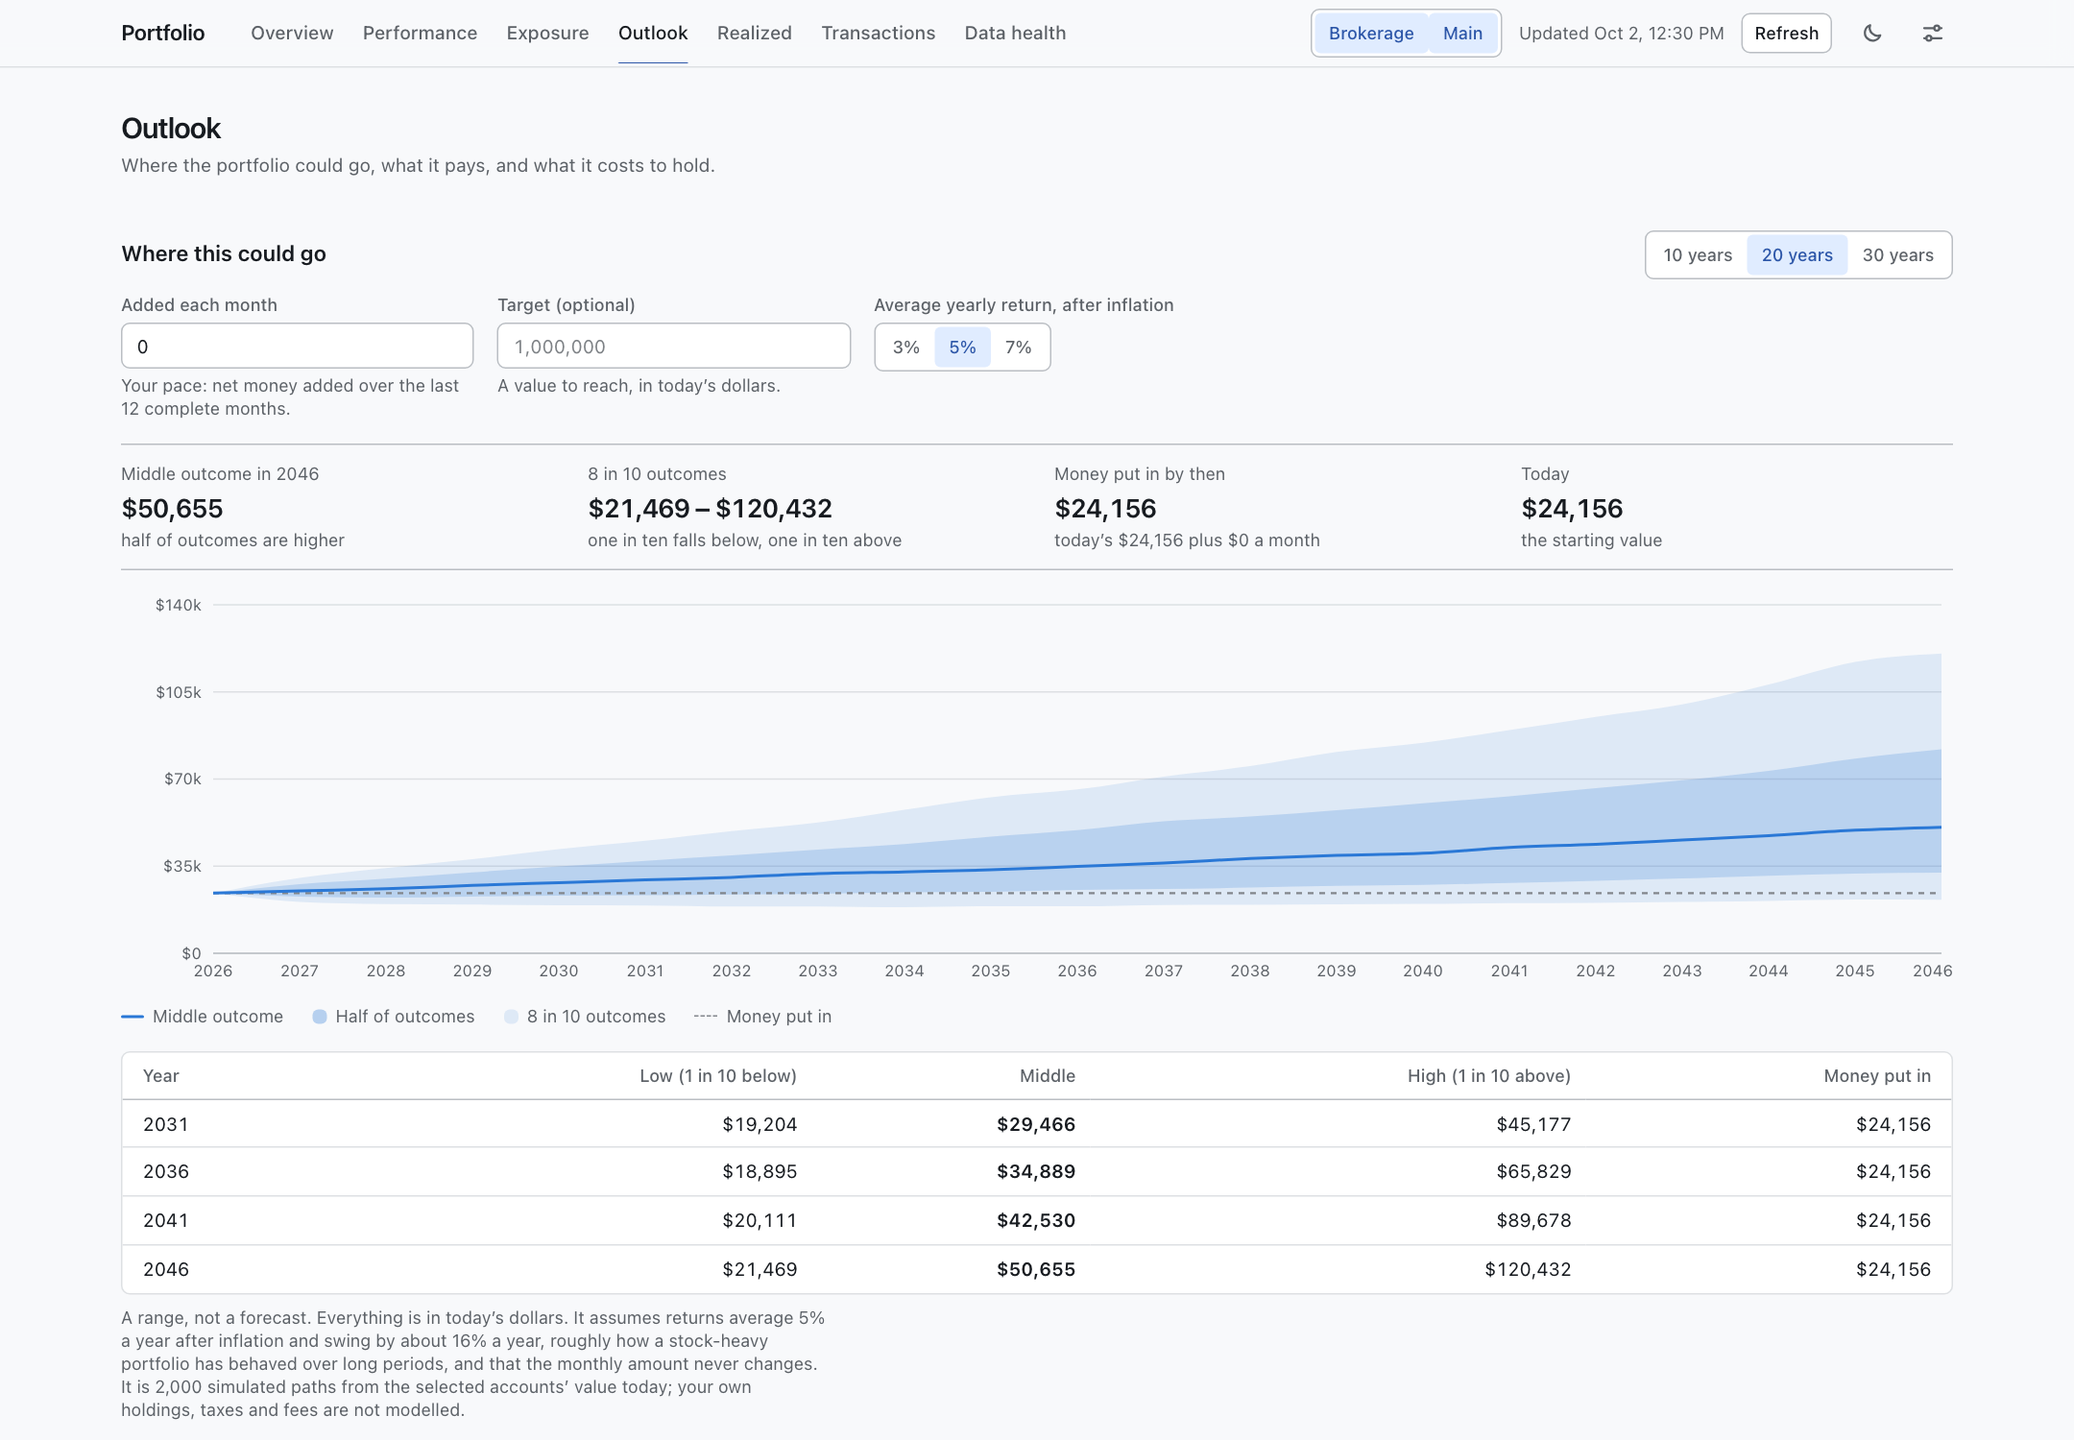
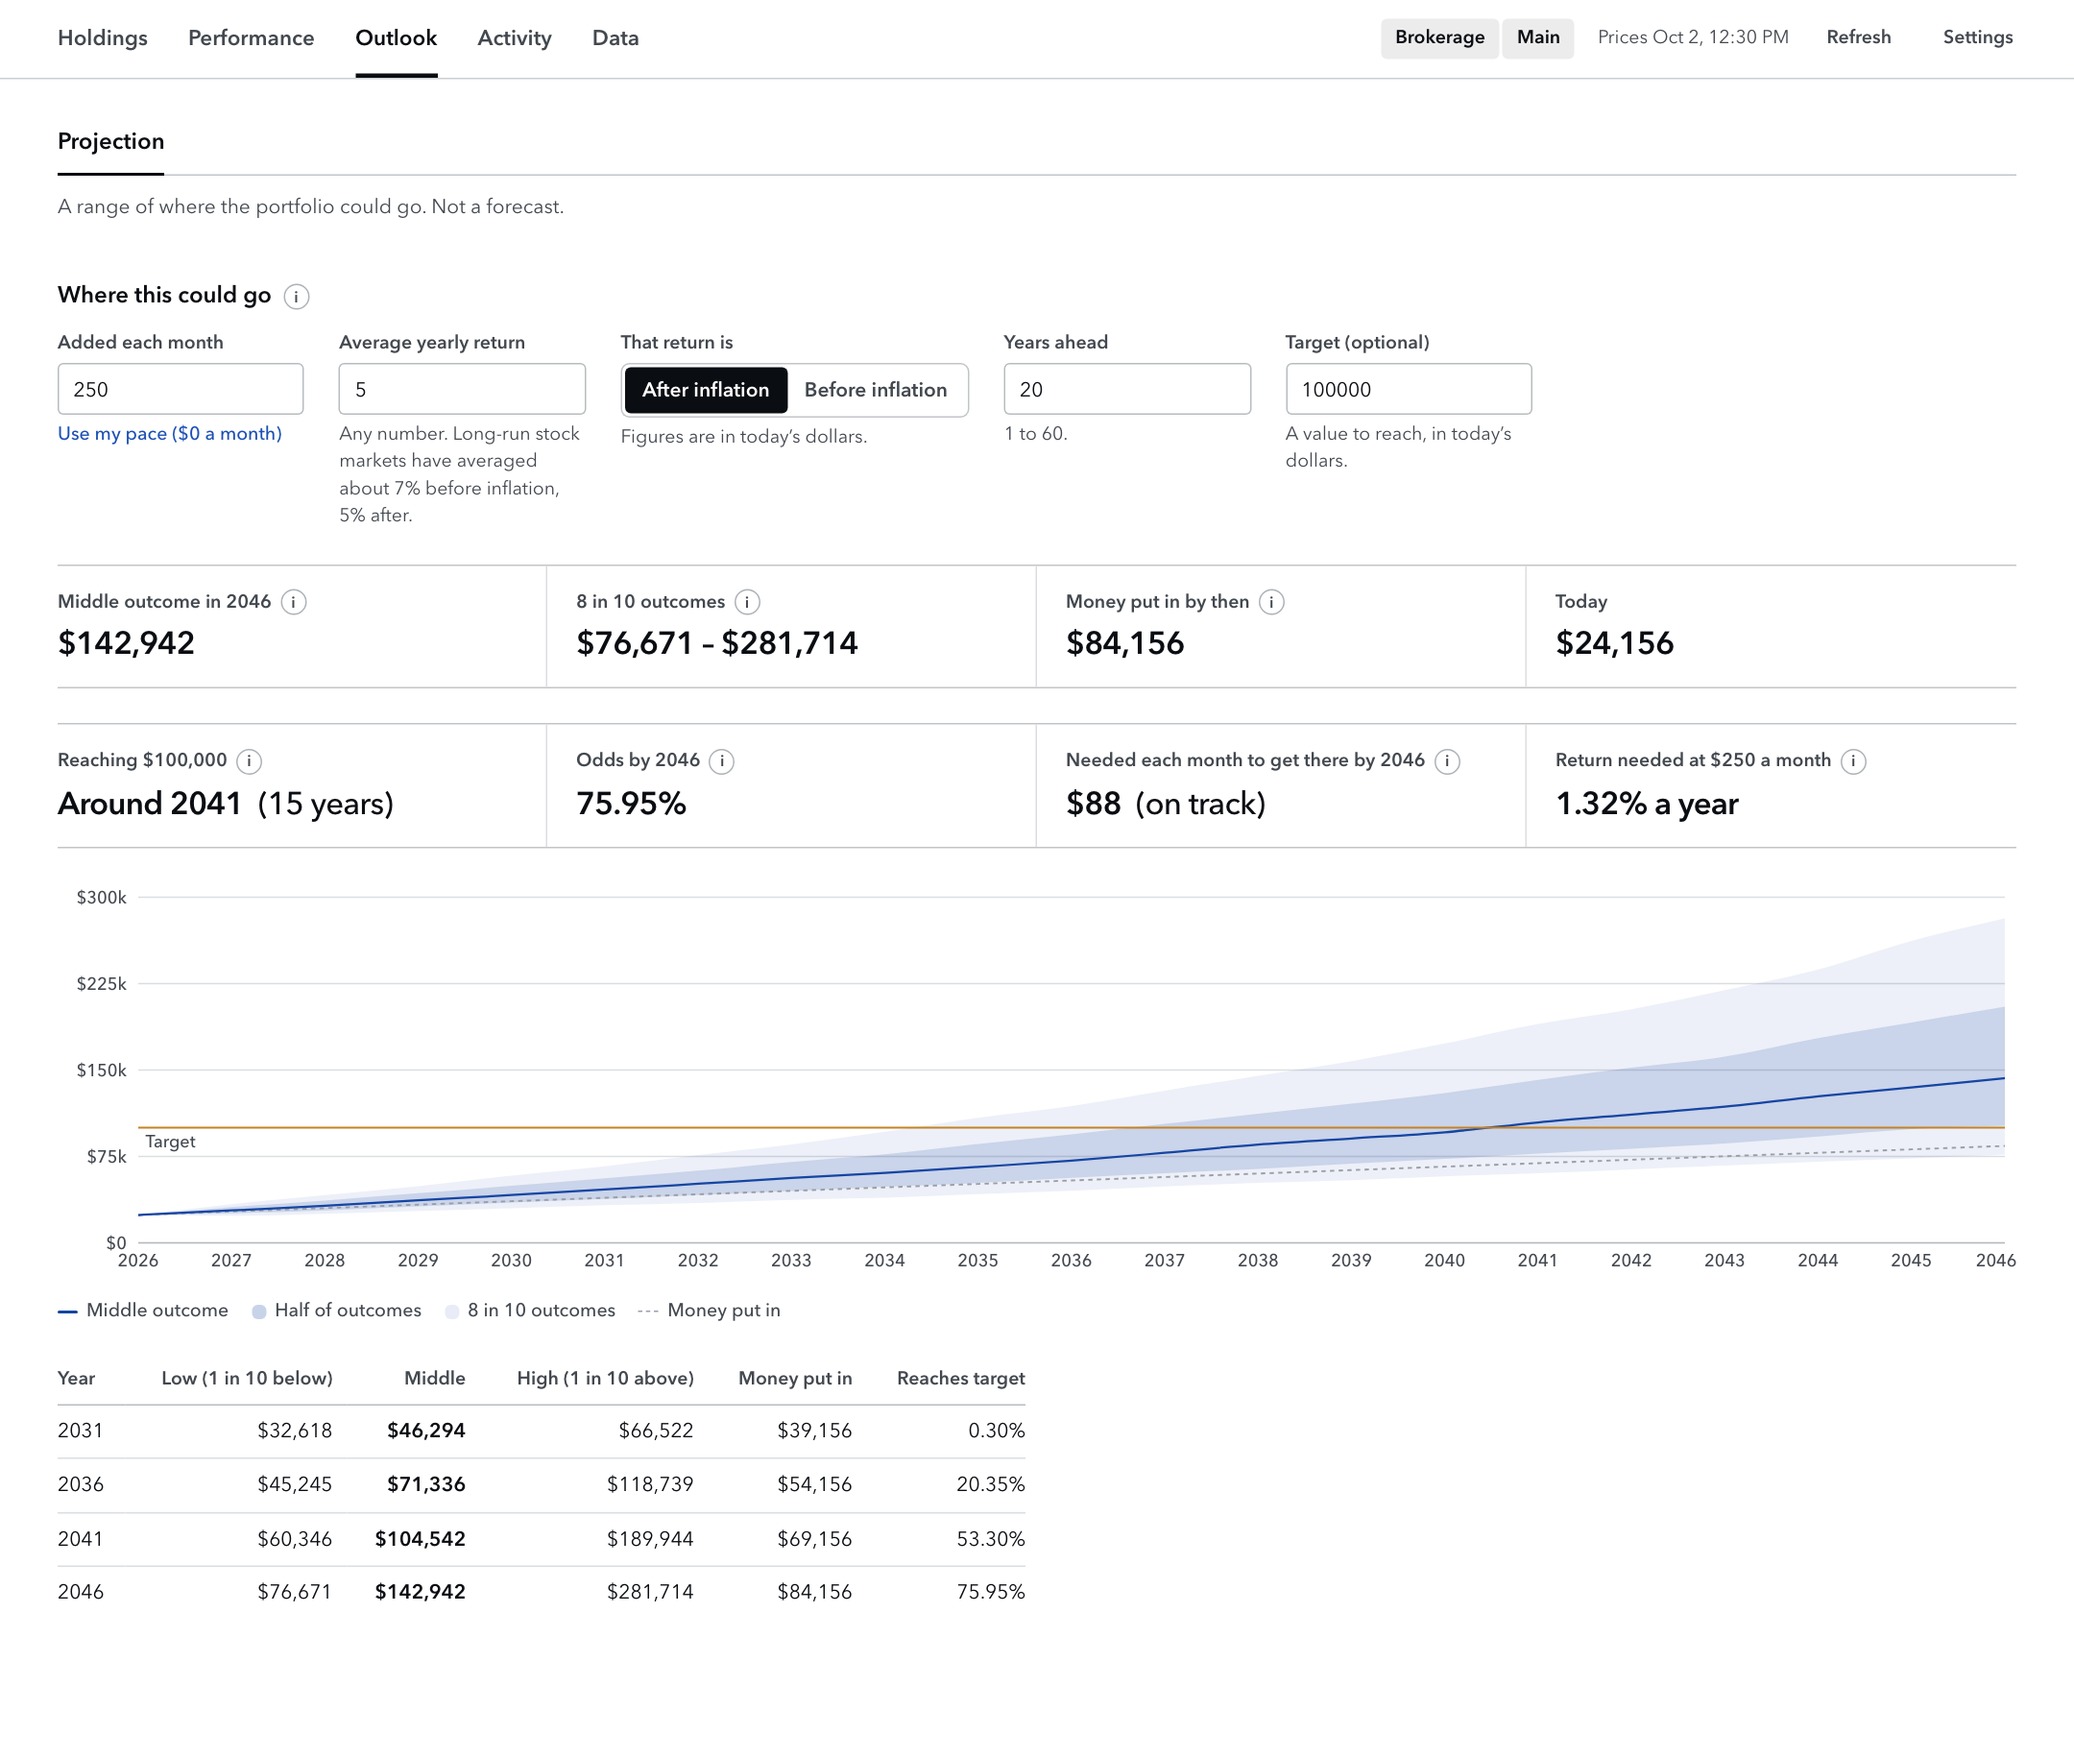
Retake the README screenshots on the redesign and add the Chart page

diff --git a/README.md b/README.md
@@ -4,7 +4,7 @@ A local, single-user replacement for the Google Sheets stock tracker. It keeps y
 
 Outbound requests send ticker symbols and date ranges to Tiingo, public fund identifiers to Vanguard for ETF holdings, and to Yahoo Finance the ticker of each stock without a sector and of each ETF you hold (for its sector breakdown and expense ratio). Portfolio amounts, share counts, and exposure calculations stay on your machine.
 
-![Overview: totals, the value chart, what moved, holdings and sector allocation](assets/screenshots/overview.png)
+![Overview: totals, the value chart, what moved and the holdings table](assets/screenshots/overview.png)
 
 The screenshots here show the invented sample portfolio in `tests/fixtures/sample/`, running on the demo server described below.
 
@@ -97,11 +97,13 @@ The top bar has five areas; each area has a row of tabs, and each tab is one pag
 
 The old page addresses (`/realized`, `/transactions`, `/activity/transactions`, `/fees`, `/health`, `/securities`) redirect to their new homes.
 
+![Chart: the whole history with buys, sells and dividends marked; drag to zoom, scroll to pan](assets/screenshots/chart.png)
+
 | Performance | Outlook |
 | --- | --- |
-| ![Performance: returns against SPY and QQQ, and stocks versus ETFs](assets/screenshots/performance.png) | ![Outlook: the range of possible future values](assets/screenshots/outlook.png) |
+| ![Performance: returns against SPY and QQQ, the same money in each benchmark, and stocks, ETFs and accounts against the chosen one](assets/screenshots/performance.png) | ![Outlook: the range of possible future values, and when a target is likely to be reached](assets/screenshots/outlook.png) |
 
-![Ticker detail: the position, a sale preview and the price chart with trade markers](assets/screenshots/ticker.png)
+![Ticker detail: the position, the price chart with trade markers, and the entered transactions](assets/screenshots/ticker.png)
 
 ### What moved
 
